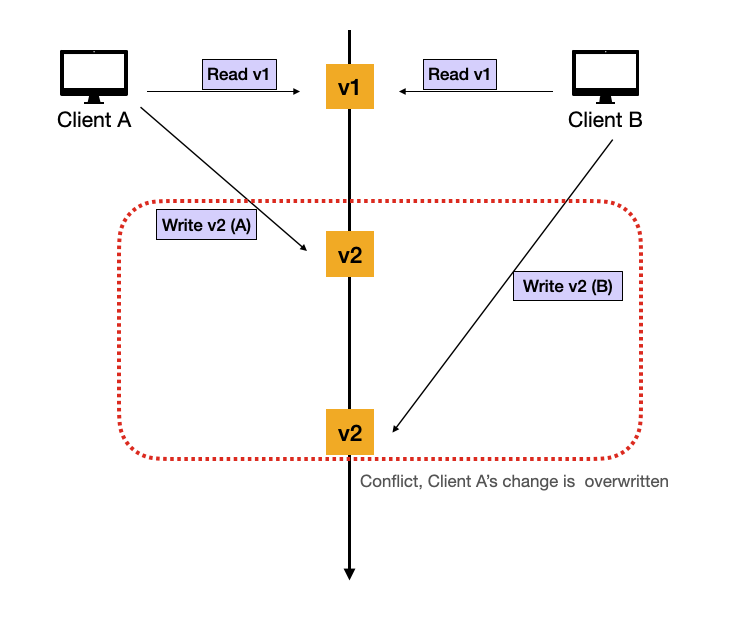
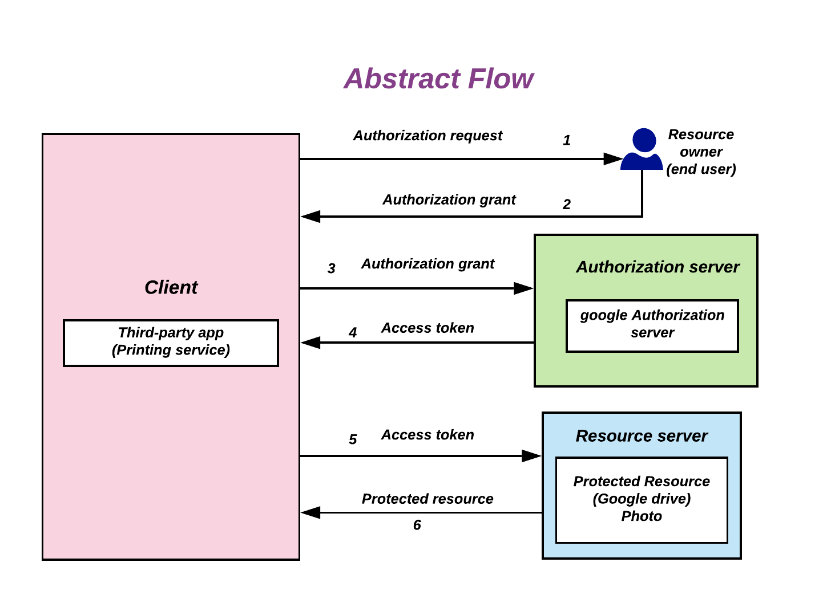
GITBOOK-39: No subject

diff --git a/java/undefined-1/undefined.md b/java/undefined-1/undefined.md
@@ -1,0 +1,227 @@
+---
+description: OAuth2.0, OIDC, 회원 탈퇴
+---
+
+# 애플 소셜로그인, 회원 가입/탈퇴 구현하기
+
+iOS앱을 배포하기 위해서는 애플 로그인을 필수로 구현해야한다. 카카오 로그인까지는 적용을 시켰었는데 이번 기회에 애플 로그인 연동을 했다.
+
+소셜 로그인의 방식에는 OAuth2 방식과 OIDC 방식이 있다.
+
+### OAuth 2.0
+
+OAuth2.0은 사용자 인증에 사용되는 개방형 프로토콜로, 서드파티 애플리케이션 측에서 사용자의 비밀번호 없이도 해당 사용자의 리소스를 조회할 수 있는 방법이다.
+
+* AccessToken을 통해 리소스 접근을 권한 관리한다.
+* 인증보다는 인가에 가깝다.
+* 서비스 제공자의 API를 이용할 수 있는 권한을 부여한다.
+
+<figure><img src="../../.gitbook/assets/image.png" alt=""><figcaption><p><a href="https://upload.wikimedia.org/wikipedia/commons/7/72/Abstract-flow.png">https://upload.wikimedia.org/wikipedia/commons/7/72/Abstract-flow.png</a></p></figcaption></figure>
+
+**1. 소셜 로그인을 진행하는 사용자의 정보는 리소스 소유자 측에 있다.**
+
+* 구글, 애플, 카카오등 사용자 정보를 제공하는 측이 데이터를 소유한다.
+* 이 회사들은 OAuth2.0 프로토콜을 통해 리소스에 대한 액세스 권한을 부여한다.
+
+**2. 서드파티 애플리케이션은 이 리소스에 접근할 수 있도록 권한을 얻어야한다.**
+
+* 소셜 로그인을 통한 정보를 필요로하는 우리(서드파티)는 권한이 필요하다.
+* Authorization Server에 권한을 얻기 위해 통신한다.
+* Authorization Server에서 받는 데이터는 클라이언트로 노출하지 않고 서버가 통신한다.
+
+**3. 얻은 권한으로 리소스 서버에 사용자 정보를 요청한다.**
+
+* 2의 과정을 통해 우리는 리소스에 접근할 권한을 받았다. 이제 요청한다.
+* 이때 Authorization Server로부터 받은 AccessToken을 사용한다.
+
+간추렸지만 3개의 과정을 통해 서버는 사용자의 정보를 소셜 벤더측으로부터 얻고 이를 활용하여 자체 회원가입을 진행한다.
+
+***
+
+### OIDC - OpenID Connect
+
+OIDC는 OAuth2.0을 확장한 **인증 프로토콜**로, 사용자 인증에 필요한 ID 토큰을 추가로 제공한다.
+
+* OIDC는 인증에 목적을 둔다.
+* OAuth2.0 기반으로 구축되었다.
+
+**OAuth2.0과 다른점?**
+
+* **OIDC는 인증에 초점을 둔다.**
+* OAuth2.0에서는 AccessToken만 제공하지만, OIDC는 ID 토큰까지 제공한다.
+* 사용자 정보는 표준화된 클레임으로 제공된다.
+  * email, name, 식별자등
+
+OAuth2.0에서는 권한을 부여받고 토큰으로 리소스를 조회했다면, OIDC에서는 사용자가 실제 벤더사에 인증된 회원인지만 인증하고 표준클레임의 최소정보만 전달받는다.
+
+**선택은 당신의 몫**
+
+* OIDC는 OAuth2.0의 확장팩인 개념이다. 따라서 소셜로그인을 구현할때 둘 중 어떤것을 택해도 상관없다.
+* 나의 경우 우리 서비스에서는 애플, 카카오의 **다른 API들을 사용하지 않는다**. **따라서 사용자의 신원 검증 및 정보 조회만 필요하여 OIDC를 선택했다.**
+
+***
+
+## 애플 로그인을 구현하기
+
+소셜로그인을 처음 구현할때 상당히 삽질을 많이 했었다. 하지만 공식문서와 OAuth2.0 프로토콜의 흐름을 이해하면 다음부터는 쉽게 연동할 수 있다.
+
+**흐름**
+
+1. iOS 클라이언트에서 SDK로 인증을 받고 서버에 Authorization Code와 Verifier을 전달한다.
+2. 서버는 애플 연동시 개발자계정에서 발급받은 Key값으로 Apple Client Secret을 얻는다.
+3. 이를 사용하여 애플에 토큰을 요청한다.
+4. 서비스 회원가입을 시킨다.
+
+***
+
+#### Secret Key 생성
+
+APPLE은 시크릿키를 동적으로 생성하는 것을 권장한다. 따라서 요청하기 전에 개발자계정에서 발급받은 키로 Secret Key를 생성해야한다.
+
+```java
+
+private String generateAppleClientSecret() {  
+    try {  
+        // 현재 시간 및 6개월 후 만료 시간 설정  
+        long nowMillis = System.currentTimeMillis();  
+        long expMillis = nowMillis + 180L * 24 * 60 * 60 * 1000; // 180일  
+        byte[] decodedKey = Base64.getDecoder().decode(formattedKey);  
+  
+        // 개인 키 생성  
+        KeyFactory keyFactory = KeyFactory.getInstance("EC");  
+        PKCS8EncodedKeySpec keySpec = new PKCS8EncodedKeySpec(decodedKey);  
+        PrivateKey privateKey = keyFactory.generatePrivate(keySpec);  
+  
+        // JWT 클라이언트 시크릿 생성  
+        return JWT.create()  
+            .withHeader(Map.of("kid", appleKeyId))  
+            .withIssuer(appleTeamId)  
+            .withIssuedAt(new Date(nowMillis))  
+            .withExpiresAt(new Date(expMillis))  
+            .withAudience("https://appleid.apple.com")  
+            .withSubject(clientId)  
+            .sign(Algorithm.ECDSA256((ECKey) privateKey));  
+  
+    } catch (Exception e) {  
+        log.error("Failed to verify Apple access token", e);  
+        throw new RuntimeException("Failed to generate Apple client secret", e);  
+    }  
+}
+
+```
+
+* 애플 PRIVATE 키를 발급받아본 사람은 알겠지만 일정한 형식이 요구된다.
+
+```
+-----BEGIN PRIVATE KEY-----
+...
+-----END PRIVATE KEY-----
+```
+
+* 이는 애플리케이션에서 처리하거나 자체로 저장해서 사용하면된다.
+
+***
+
+#### ID Token 발급받기
+
+* 위에서 만든 SecretKey로 ID token을 발급받자. 클라이언트로부터 전달받은 `authcode` 와 `verifier` 을 담아서 전달해야한다.
+
+```java
+HttpHeaders headers = new HttpHeaders();  
+headers.setContentType(MediaType.APPLICATION_FORM_URLENCODED);  
+  
+MultiValueMap<String, String> map = new LinkedMultiValueMap<>();  
+map.add("client_id", clientId);  
+map.add("client_secret", generateAppleClientSecret());  
+map.add("code", authCode);  
+map.add("grant_type", "authorization_code");  
+map.add("redirect_uri", redirectUri);  
+map.add("code_verifier", codeVerifier);  
+  
+HttpEntity<MultiValueMap<String, String>> request = new HttpEntity<>(map, headers);  
+  
+ResponseEntity<String> response = restTemplate.postForEntity(  
+    "https://appleid.apple.com/auth/token", request, String.class);
+
+```
+
+* 이제 전달받은 데이터에서 서비스에 필요한 데이터를 사용하면된다.
+
+***
+
+### 받은 데이터로 바로 유저를 저장?
+
+간단한 구현일 줄 알았지만 문제는 여기서 생겼다. 서비스의 UI 플로우와 요구사항이 다음과 같았다.
+
+{% hint style="info" %}
+**"소셜 로그인이 끝나고 서비스에 필요한 정보들을 더 받고 회원가입 시킨다."**
+{% endhint %}
+
+소셜로부터 인증은 끝났지만 아직 정보를 입력하지 않아서 회원가입을 시킬 수는 없는 상황이 되었다. 즉, 인증의 시점과 가입의 시점이 다르다는 것인데 문제를 쪼개보자.
+
+흐름은 다음과 같다.
+
+1. 사용자가 인증을 하면 사용자 데이터를 서버가 받는다.
+2. 클라이언트가 개인 정보를 더 받아서 회원가입을한다.
+3. 서버는 그 정보를 받아서 회원가입 시킨다.
+
+3번의 흐름에서 서버는 그 클라이언트의 신원을 파악할 수 없다. **인증 시점과 가입 시점이 다르기 때문이다.** 따라서 클라이언트의 상태를 유지해야한다.
+
+***
+
+
+
+### **상태를 어떻게 유지하지?**
+
+사용자의 상태를 유지하는 방법으로는 크게 2가지가 있다. **세션과 토큰.**
+
+세션은 메모리나 데이터베이스에 클라이언트의 정보를 일정 기간 서버에서 유지하는 방법이다. 토큰의 경우 클라이언트 - 서버는 무상태지만 carry-on 토큰에 정보를 담아서 사용한다.
+
+
+
+**우리는 데이터베이스에 UUID와 소셜 정보를 임시로 저장하기로했다.**
+
+1. 식별할 수 있는 방법이 필요한데 정수값은 위험하다고 판단했다.
+2. 단순 UUID만 저장하는 것이 아니라 소셜 정보도 일부 저장해야한다.
+3.
+
+***
+
+### **소셜 정보를 왜 저장해야하지?**
+
+회원가입 대상자라면, **JWT 토큰의 페이로드에 소셜정보들을 담아서 클라이언트에 제공하는 방안이 있었다.**
+
+* **회원가입 탈퇴를 위해 refresh\_token을 데이터베이스에 저장해야했다.**
+
+서버에서 이를 저장하지 않으면 회원탈퇴 과정에서 애플로그인을 해야하는 기괴한 UI흐름이 생긴다. refresh\_token은 서비스마다 애플에서 발급하는 영구적인 값이기 때문에 노출하고 싶지 않았다.&#x20;
+
+탈취되었을 때 위험성은.. 익명 나쁜 사람이 사용자를 계속 탈퇴시킨다?는 점이다. 애플에서는 애플이 제공하는 정보들에 대해 보안성을 지킬것을 요구하기에 외부로 노출하지 않기로 했다.
+
+
+
+**결정된 흐름**
+
+
+
+<figure><img src="../../.gitbook/assets/Screenshot 2025-04-15 at 6.27.39 PM.png" alt=""><figcaption><p>sequence-diagram</p></figcaption></figure>
+
+* 서버에서는 인증 이후에 받은 정보를 **임시 테이블에 저장한다.**
+* 클라이언트에 회원가입만을 위한 임시 토큰을 발급한다. 이때 Expire Time을 10분 이내로 짧게 가져간다.
+* 클라이언트는 정보와 함께 토큰을 서버에 다시 전달한다. **내가 인증된 사용자라는 것을 증명하는 수단이다.**
+* 서버에서는 토큰을 검증하고 최종 회원가입 시킨다.
+
+***
+
+**후기**
+
+회원 탈퇴를 고려하지 않고 설계를 했다가 애플에서 제공한 리프레쉬 토큰이 필요한 것을 알았다. 이후 초기 설계를 엎고 다시 구현을 했어야했다. 애플 로그인은 처음이었지만 오히려 이 경험을 통해 더 많이 배운것 같다.
+
+**참고한 자료**
+
+{% embed url="https://guide.ncloud-docs.com/docs/b2bpls-oauth2" %}
+
+{% embed url="https://oauth.net/articles/authentication/" %}
+
+{% embed url="https://developer.apple.com/documentation/accountorganizationaldatasharing/generate-and-validate-tokens" %}
+
+{% embed url="https://developer.apple.com/documentation/accountorganizationaldatasharing/generate-and-validate-tokens" %}

diff --git a/java/undefined-1/os.md b/java/undefined-1/os.md
@@ -14,7 +14,7 @@ description: 자료구조와 캐시
 
 * **이진 탐색** 만약 데이터가 숫자라면 이야기가 조금 달라진다. 데이터를 저장할때, 정렬이 유지되는 자료구조를 사용한다면 삽입, 조회, 삭제를 $$O(logn)$$ 에 수행할 수 있다. 물론 이는 Balanced Binary Tree 자료구조를 사용할때 이야기이다.
 
-<figure><img src="../../.gitbook/assets/image (1).png" alt=""><figcaption><p><a href="https://en.wikipedia.org/wiki/Binary_search">https://en.wikipedia.org/wiki/Binary_search</a></p></figcaption></figure>
+<figure><img src="../../.gitbook/assets/image (1) (1).png" alt=""><figcaption><p><a href="https://en.wikipedia.org/wiki/Binary_search">https://en.wikipedia.org/wiki/Binary_search</a></p></figcaption></figure>
 
 * **해시** 우리가 마주하는 데이터들은 보통 문자열이나 복잡한 객체이다. 이 친구들이 자신만을 의미하는 고유한 값들이 있다면 우리는 $$O(1)$$ 에 값을 조회할 수도 있다.
 

diff --git a/java/undefined-1/optimistic-lock.md b/java/undefined-1/optimistic-lock.md
@@ -137,7 +137,7 @@ fun `재고 감소 동시테스트`() {
 
 엔티티에 버젼 컬럼을 추가한다. 한 트랜잭션이 시작될때마다 초기의 버전값을 기억하고 로직을 수행한다. 마지막 데이터베이스의 커밋시점에 버전값이 달라진다면, 낙관락 예외를 발생한다.
 
-<figure><img src="../../.gitbook/assets/image.png" alt=""><figcaption><p><a href="https://systemdesignschool.io/blog/optimistic-locking">https://systemdesignschool.io/blog/optimistic-locking</a></p></figcaption></figure>
+<figure><img src="../../.gitbook/assets/image (1).png" alt=""><figcaption><p><a href="https://systemdesignschool.io/blog/optimistic-locking">https://systemdesignschool.io/blog/optimistic-locking</a></p></figcaption></figure>
 
 
 

diff --git a/SUMMARY.md b/SUMMARY.md
@@ -16,6 +16,7 @@
   * [자료구조와 OS 캐시](java/undefined-1/os.md)
   * [HTTP/2.0](java/undefined-1/http-2.0.md)
   * [Json을 DB에 저장하기](java/undefined-1/json-db.md)
+  * [애플 소셜로그인, 회원 가입/탈퇴 구현하기](java/undefined-1/undefined.md)
 * [테스트](java/undefined-2/README.md)
   * [테스트 코드편](java/undefined-2/undefined/README.md)
     * [@ParameterizedTest + Enum](java/undefined-2/undefined/parameterizedtest-+-enum.md)
